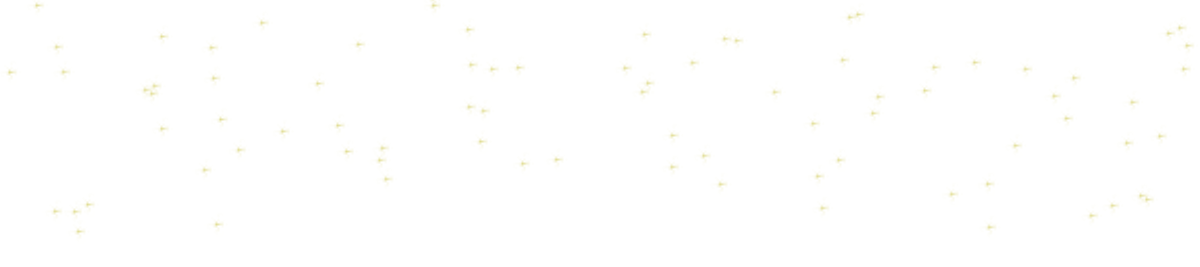
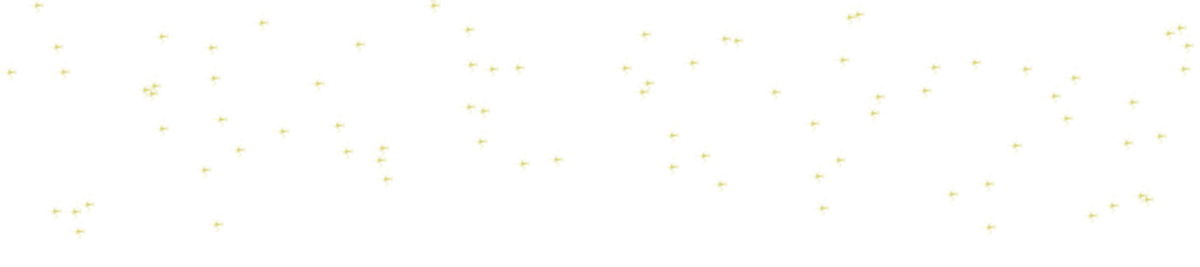
stars bright

Changed region(s): [[0.9867, 0.1498, 1.0, 0.1798], [0.1233, 0.3296, 0.1542, 0.3596]]

diff --git a/index.html b/index.html
@@ -12,11 +12,8 @@
     <article class="card">
         <img src="./photos/logo_neon_cut.png" alt="INTRO" />
         <p style="text-align:center; color:#d880d1;">Ваша ЛЮБОВЬ в этом приложении!</p>
-        <!-- Контейнер для кнопки -->
-        <div id="button-container">
-        </div>
-        </article>
-        <a href="registration.html"><button id="profile">Приступить к поиску</button></a>
+        <a href="registration.html"><button id="profile">Приступить к поиску</button></a>  
+    </article>
     <script src="https://telegram.org/js/telegram-web-app.js?56"></script>
     <script src="./javaScript/mainPage.js"></script>
 </body>

diff --git a/registration.html b/registration.html
@@ -12,6 +12,7 @@
 <link href="https://fonts.googleapis.com/css2?family=Montserrat:ital,wght@0,100..900;1,100..900&display=swap" rel="stylesheet">
 </head>
 <body>
+    
     <table class="table-bordered">
         <tbody>
             <td style="width: 33%; text-align: center;">
@@ -25,7 +26,6 @@
             </td>
         </tbody>
     </table>
-         
     <img src="./photos/logo_neon_cut.png" alt="INTRO" />
 
     <div id="regist1">

diff --git a/css/mainPage.css b/css/mainPage.css
@@ -107,12 +107,12 @@ buttonnew {
     margin-right: auto;
     text-align: left;
 }
-
 .card {
   background-image: url("../photos/stars.png");
   background-repeat: no-repeat;
   background-position: top;
   background-size: 100%;
+ height: 100%;
 }
 img {
     width: 100%;
